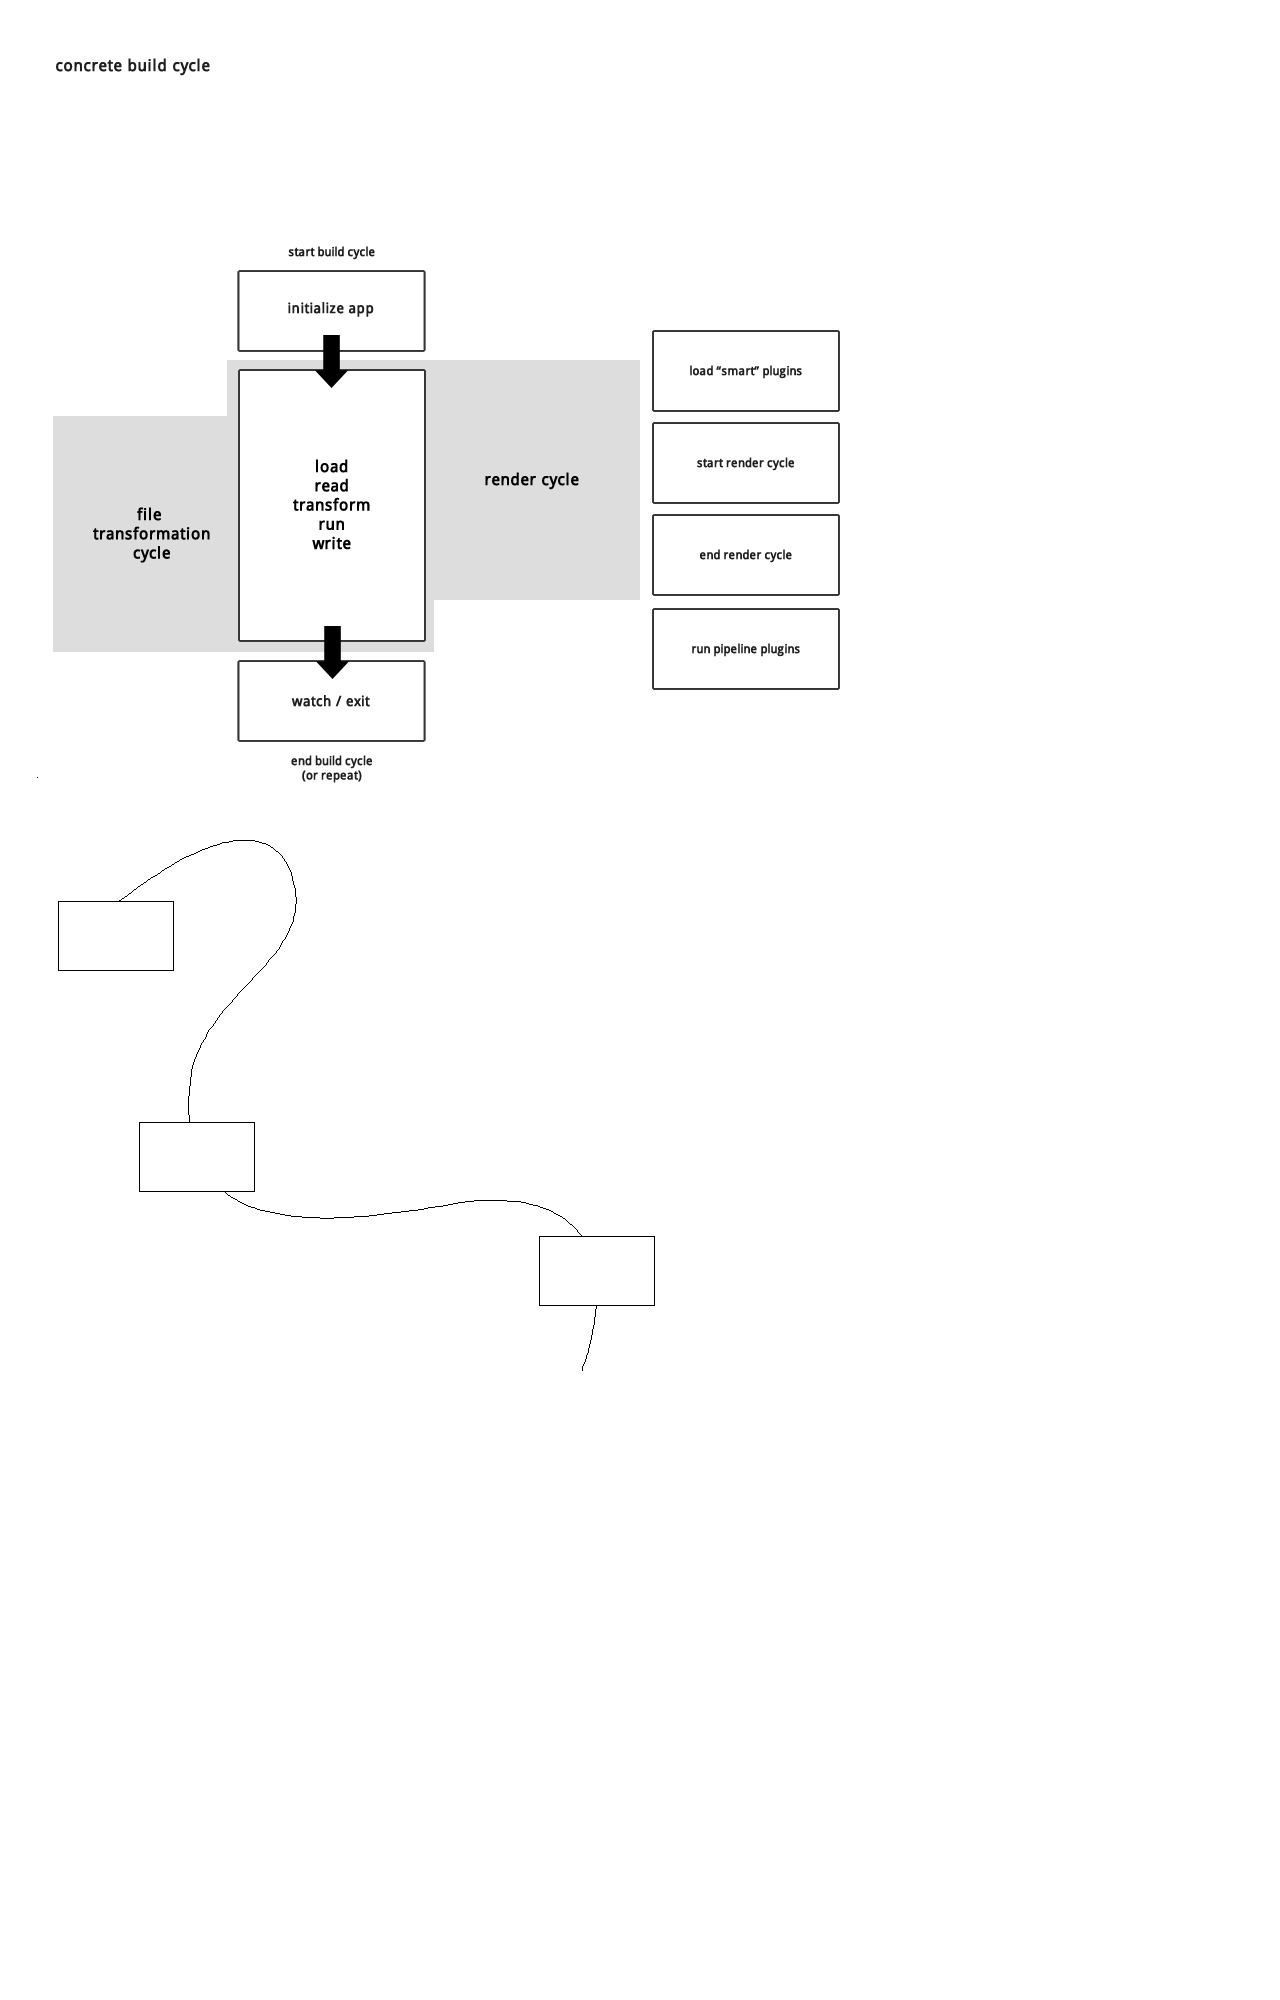
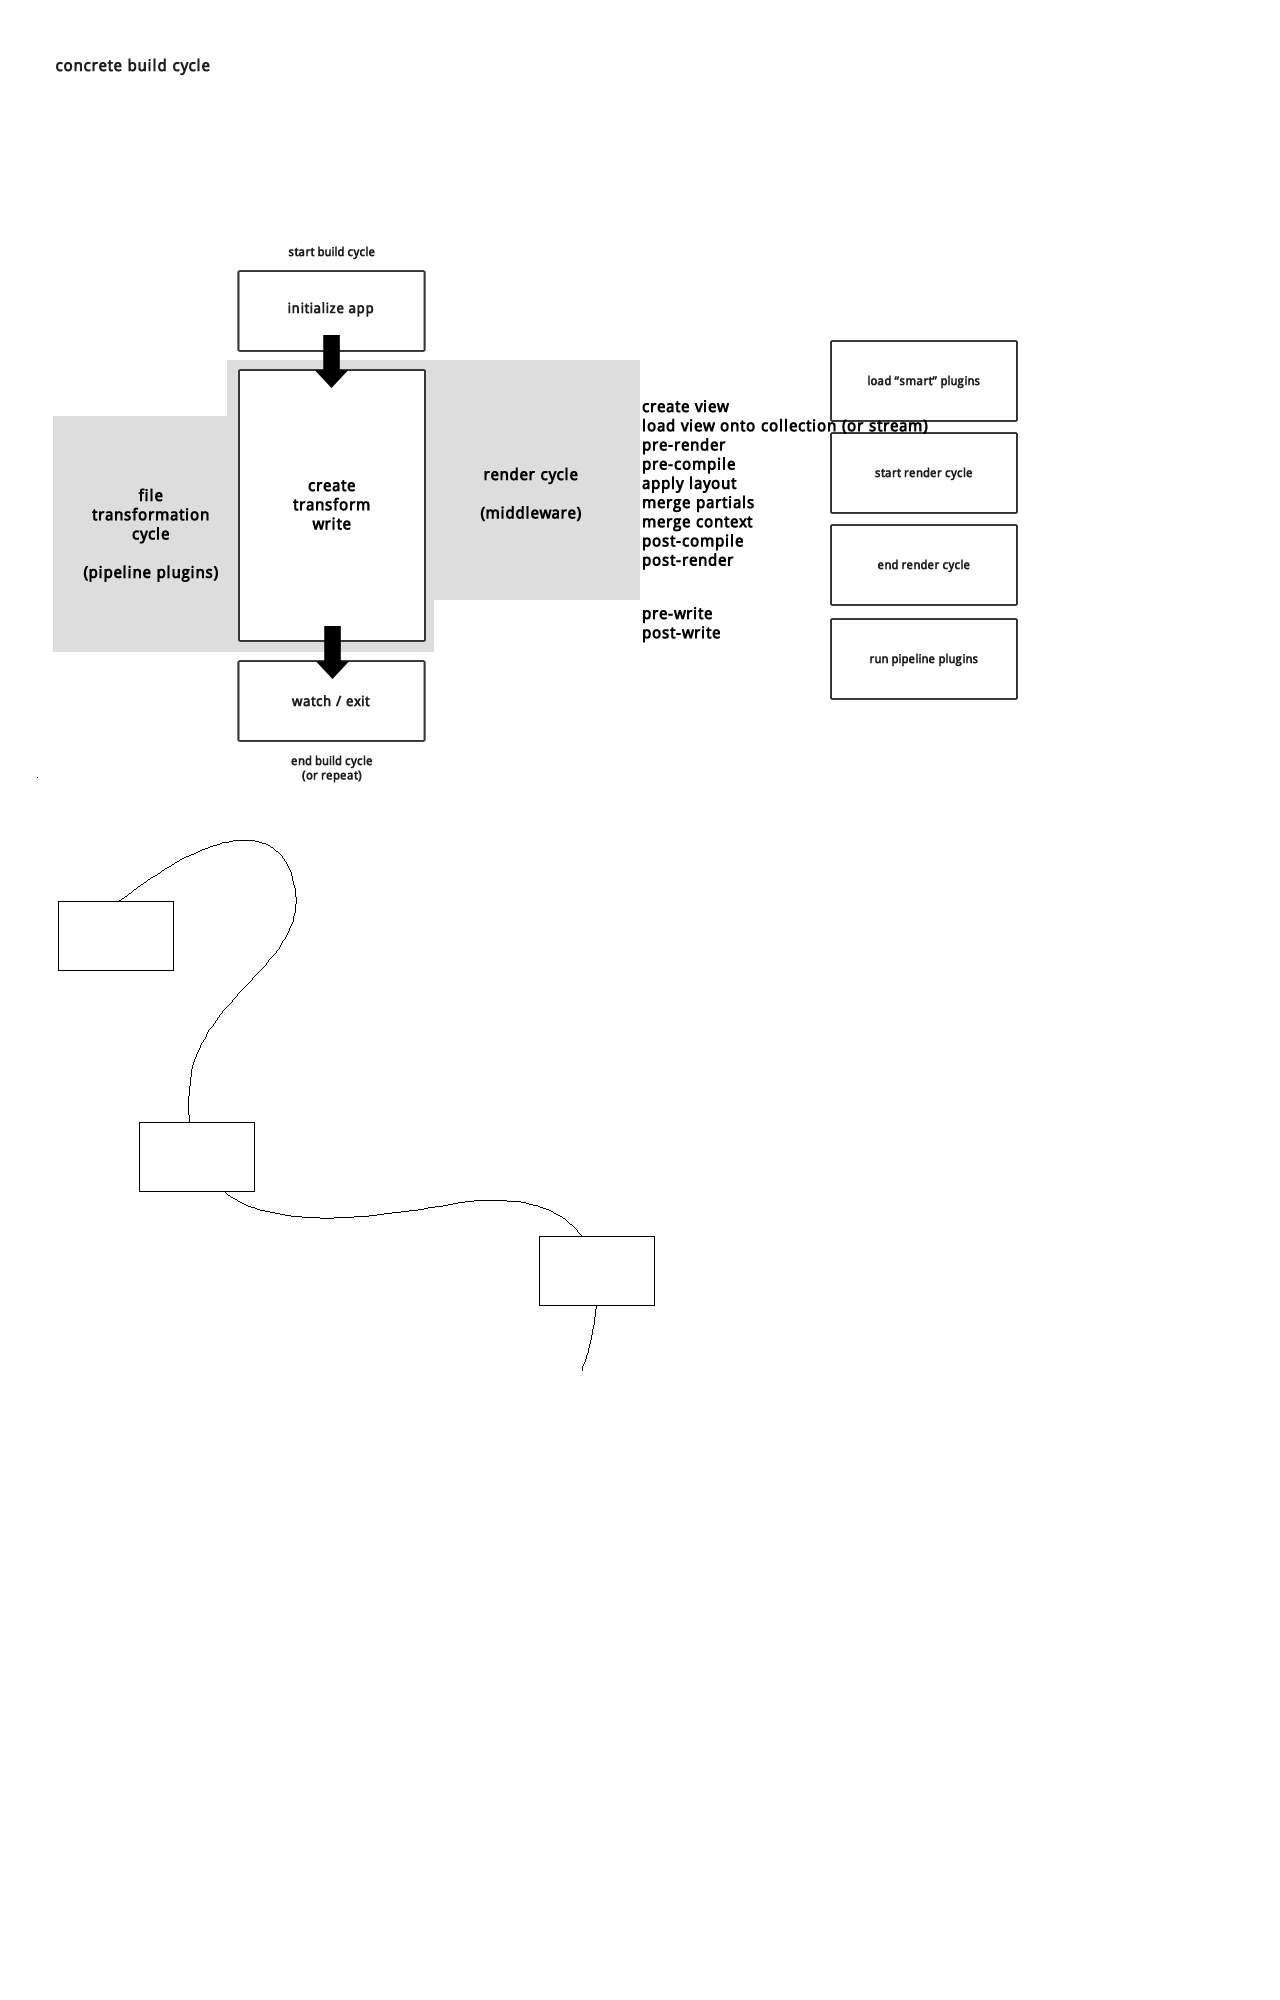
update docs

diff --git a/docs/src/content/render-cycle.md b/docs/src/content/render-cycle.md
@@ -1,0 +1,139 @@
+---
+title: Build Cycle
+category: docs
+sortBy: 20
+---
+**Overview**
+
+* initialize app
+* read
+* transform
+* write
+
+**Build stages**
+
+* initialize app
+* create collection (only applies to cached views)
+* load view
+* render cycle
+  - ~~build grid~~ (coming soon)
+  - apply layout
+  - merge context
+  - compile
+  - render
+* write
+
+## Plugins
+
+Unless explicitly invoked by the user (using `.use` or `.run`, for example), instance plugins are only invoked when an instance is created.
+
+**Instances**
+
+More specifically, plugins are invoked when the following instances are created:
+
+- App: `app` plugins are invoked when the application (assemble) instance is initialized
+- Collection: `collection` plugins are invoked when a collection is created
+- View: `view` plugins are invoked when a view is created
+
+**Exceptions to the rule**
+
+- Un-cached (collection-less) views might be created before any collections are created (for example, views created using `app.view()` are not cached on a collection)
+- Plugins that are _defined on a collection_ will only be passed to views created by the collection.
+
+## Middleware
+
+Middleware handlers correspond to points during the build cycle.
+
+## View lifecycle
+
+- [load](#load)
+- [render cycle](#render-cycle)
+- [write](#write)
+
+### Load
+
+The "load" stage corresponds to when a `view` is _loaded onto a collection_. This is also the point the `.onLoad` middleware handler is invoked.
+
+- `app.src`
+- `collection.addView`
+- `collection.setView`
+
+**Exception to the rule: un-cached views**
+
+Methods are available for creating collection-less (un-cached) views. Namely:
+
+- `app.view`
+- `collection.view`
+
+However, since views created by these methods are, by definition, not "loaded" onto a collection (even when created by `collection.view`), the `.onLoad` middleware handler is not called (by default). You can work around this by calling the `.onLoad` middleware yourself.
+
+For example, since the [assemble-render-file][] plugin renders views that may or may not belong to a collection (and some views might have been loaded by `app.src()`, versus a collection method), the `.onLoad` middleware handler is called before `.render`, to ensure that all `.onLoad` middleware functions are called, regardless of how the views were loaded.
+
+### Render cycle
+
+The render cycle is the most complex part of the build cycle, and consists of five major "stages":
+
+- ~~build grid~~ (coming soon)
+- apply layout
+- merge context
+- compile
+- render
+
+**In detail**
+
+Create the context:
+
+- merge context (not a middleware stage)
+
+Start the render cycle:
+
+- pre-render
+- pre-compile (if `.compile` is called directly, this will happen before pre-render)
+
+Apply the layout stack:
+
+- pre-layout
+- on-layout
+- post-layout
+
+Merge helpers and partials onto the context:
+
+- merge helpers (not a middleware stage)
+- on-merge (partials)
+
+Finish compiling:
+
+- compile (`.compile` method is called)
+- post-compile
+
+Finish rendering:
+
+- render (`.render` method is called)
+- post-render
+
+**Related API methods**
+
+- `.compile`
+- `.render`
+
+### Write
+
+- `onStream`
+- `preWrite`
+- `postWrite`
+
+
+**Related API methods**
+
+- `view.write`
+- `app.dest`
+
+
+### Pre-render
+
+- `.preRender` middleware is invoked
+- `preRender` event is emitted
+
+### Render
+
+### Post-render

diff --git a/docs/src/content/recipes/strip-indentation-in-views.md b/docs/src/content/recipes/strip-indentation-in-views.md
@@ -1,0 +1,54 @@
+---
+title: Strip indentation in views
+---
+
+To strip indentation in `view.contents`, you can create a helper using the [strip-indent](https://www.npmjs.com/package/strip-indent) library.
+
+**Example**
+
+```js
+var stripIndent = require('strip-indent');
+
+// handlebars block helper
+app.helper('stripIndent', function(options) {
+  return stripIndent(options.fn(this));
+});
+
+// generic helper
+app.helper('stripIndent', function(str) {
+  return stripIndent(str);
+});
+```
+
+## Usage
+
+**Text**
+
+Strip indentation from specific text or content:
+
+```handlebars
+{{#stripIndent}}
+    Foo
+      Bar
+{{#stripIndent}}
+```
+
+Results in:
+
+```html
+Foo
+  Bar
+```
+
+**Layouts**
+
+When used in a layout, the following would strip the indentation from the entire string passed to the `body` tag.
+
+```handlebars
+<!-- layout.hbs -->
+{{#stripIndent}}
+    {% body %}
+{{#stripIndent}}
+```
+
+Tip: create an "intermediary" layout, which only exists for stripping indentation using this helper. Any layout or template that needs indentation stripped could use this layout.

diff --git a/docs/src/content/recipes/debugging-views.md b/docs/src/content/recipes/debugging-views.md
@@ -1,0 +1,33 @@
+---
+title: Debuggine views
+related: 
+  recipes: ['inspecting-the-context']
+---
+
+## Middleware
+
+To quickly inspect the `view` object at each stage of the render cycle, create a generic middleware function that logs out the view and the "stage":
+
+```js
+function middleware(stage) {
+  // customize the regex for matching `view.path` if necessary
+  app[stage](/./, function(view, next) {
+    // change `view.contents` to something else if you 
+    // want to inspect a different property
+    console.log(stage, view.contents.toString());
+    next();
+  });
+}
+```
+
+**Usage**
+
+Call the function with the stage you want to inspect:
+
+```js
+middleware('onLoad');
+middleware('preCompile');
+middleware('postCompile');
+middleware('preRender');
+middleware('postRender');
+```

diff --git a/docs/src/content/subjects/assemble.md b/docs/src/content/subjects/assemble.md
@@ -4,6 +4,7 @@ description: >
   Get a high level overview of Assemble, and answers to questions like, "What is Assemble?", "What does Assemble do?", "Is Assemble a good fit for me?".
 category: subjects
 ---
+
 Assemble makes it easy to create, customize, generate and maintain a complete static web project. This includes:
 
 - Transforming content from markdown or any other plain text format to HTML

diff --git a/docs/src/content/subjects/assemblefile.md b/docs/src/content/subjects/assemblefile.md
@@ -2,6 +2,7 @@
 title: assemblefile.js
 category: subjects
 ---
+
 **What is an `assemblefile.js`?**
 
 When run via command line, Assemble will automatically search for an `assemblefile.js` in the current working directory.

diff --git a/docs/src/content/subjects/readme.md b/docs/src/content/subjects/readme.md
@@ -3,4 +3,5 @@ title: Subjects
 draft: true
 category: subjects
 ---
+
 Documents in this directory will probably end up either moved into API docs, or published as parts of blog posts or tutorials somewhere.

diff --git a/docs/src/content/subjects/plugins.md b/docs/src/content/subjects/plugins.md
@@ -7,6 +7,7 @@ related:
   - api/middleware
   - api/helpers
 ---
+
 Assemble's first-class plugin system makes it super easy to add custom features and functionality.
 
 ## Plugin types

diff --git a/docs/src/content/subjects/gulp-faq.md b/docs/src/content/subjects/gulp-faq.md
@@ -2,6 +2,7 @@
 title: Gulp FAQ
 category: subjects
 ---
+
 Common questions we're asked about [gulp][] and gulp plugins.
 
 **Does assemble wrap gulp?**

diff --git a/docs/src/content/subjects/overview.md b/docs/src/content/subjects/overview.md
@@ -2,6 +2,7 @@
 title: Overview
 category: subjects
 ---
+
 ## CLI and API
 
 > Assemble v0.6.0 will have both an API and a CLI

diff --git a/docs/src/content/subjects/building-blocks.md b/docs/src/content/subjects/building-blocks.md
@@ -2,6 +2,7 @@
 title: Building blocks
 category: subjects
 ---
+
 **Summary**
 
 - [templates]()
